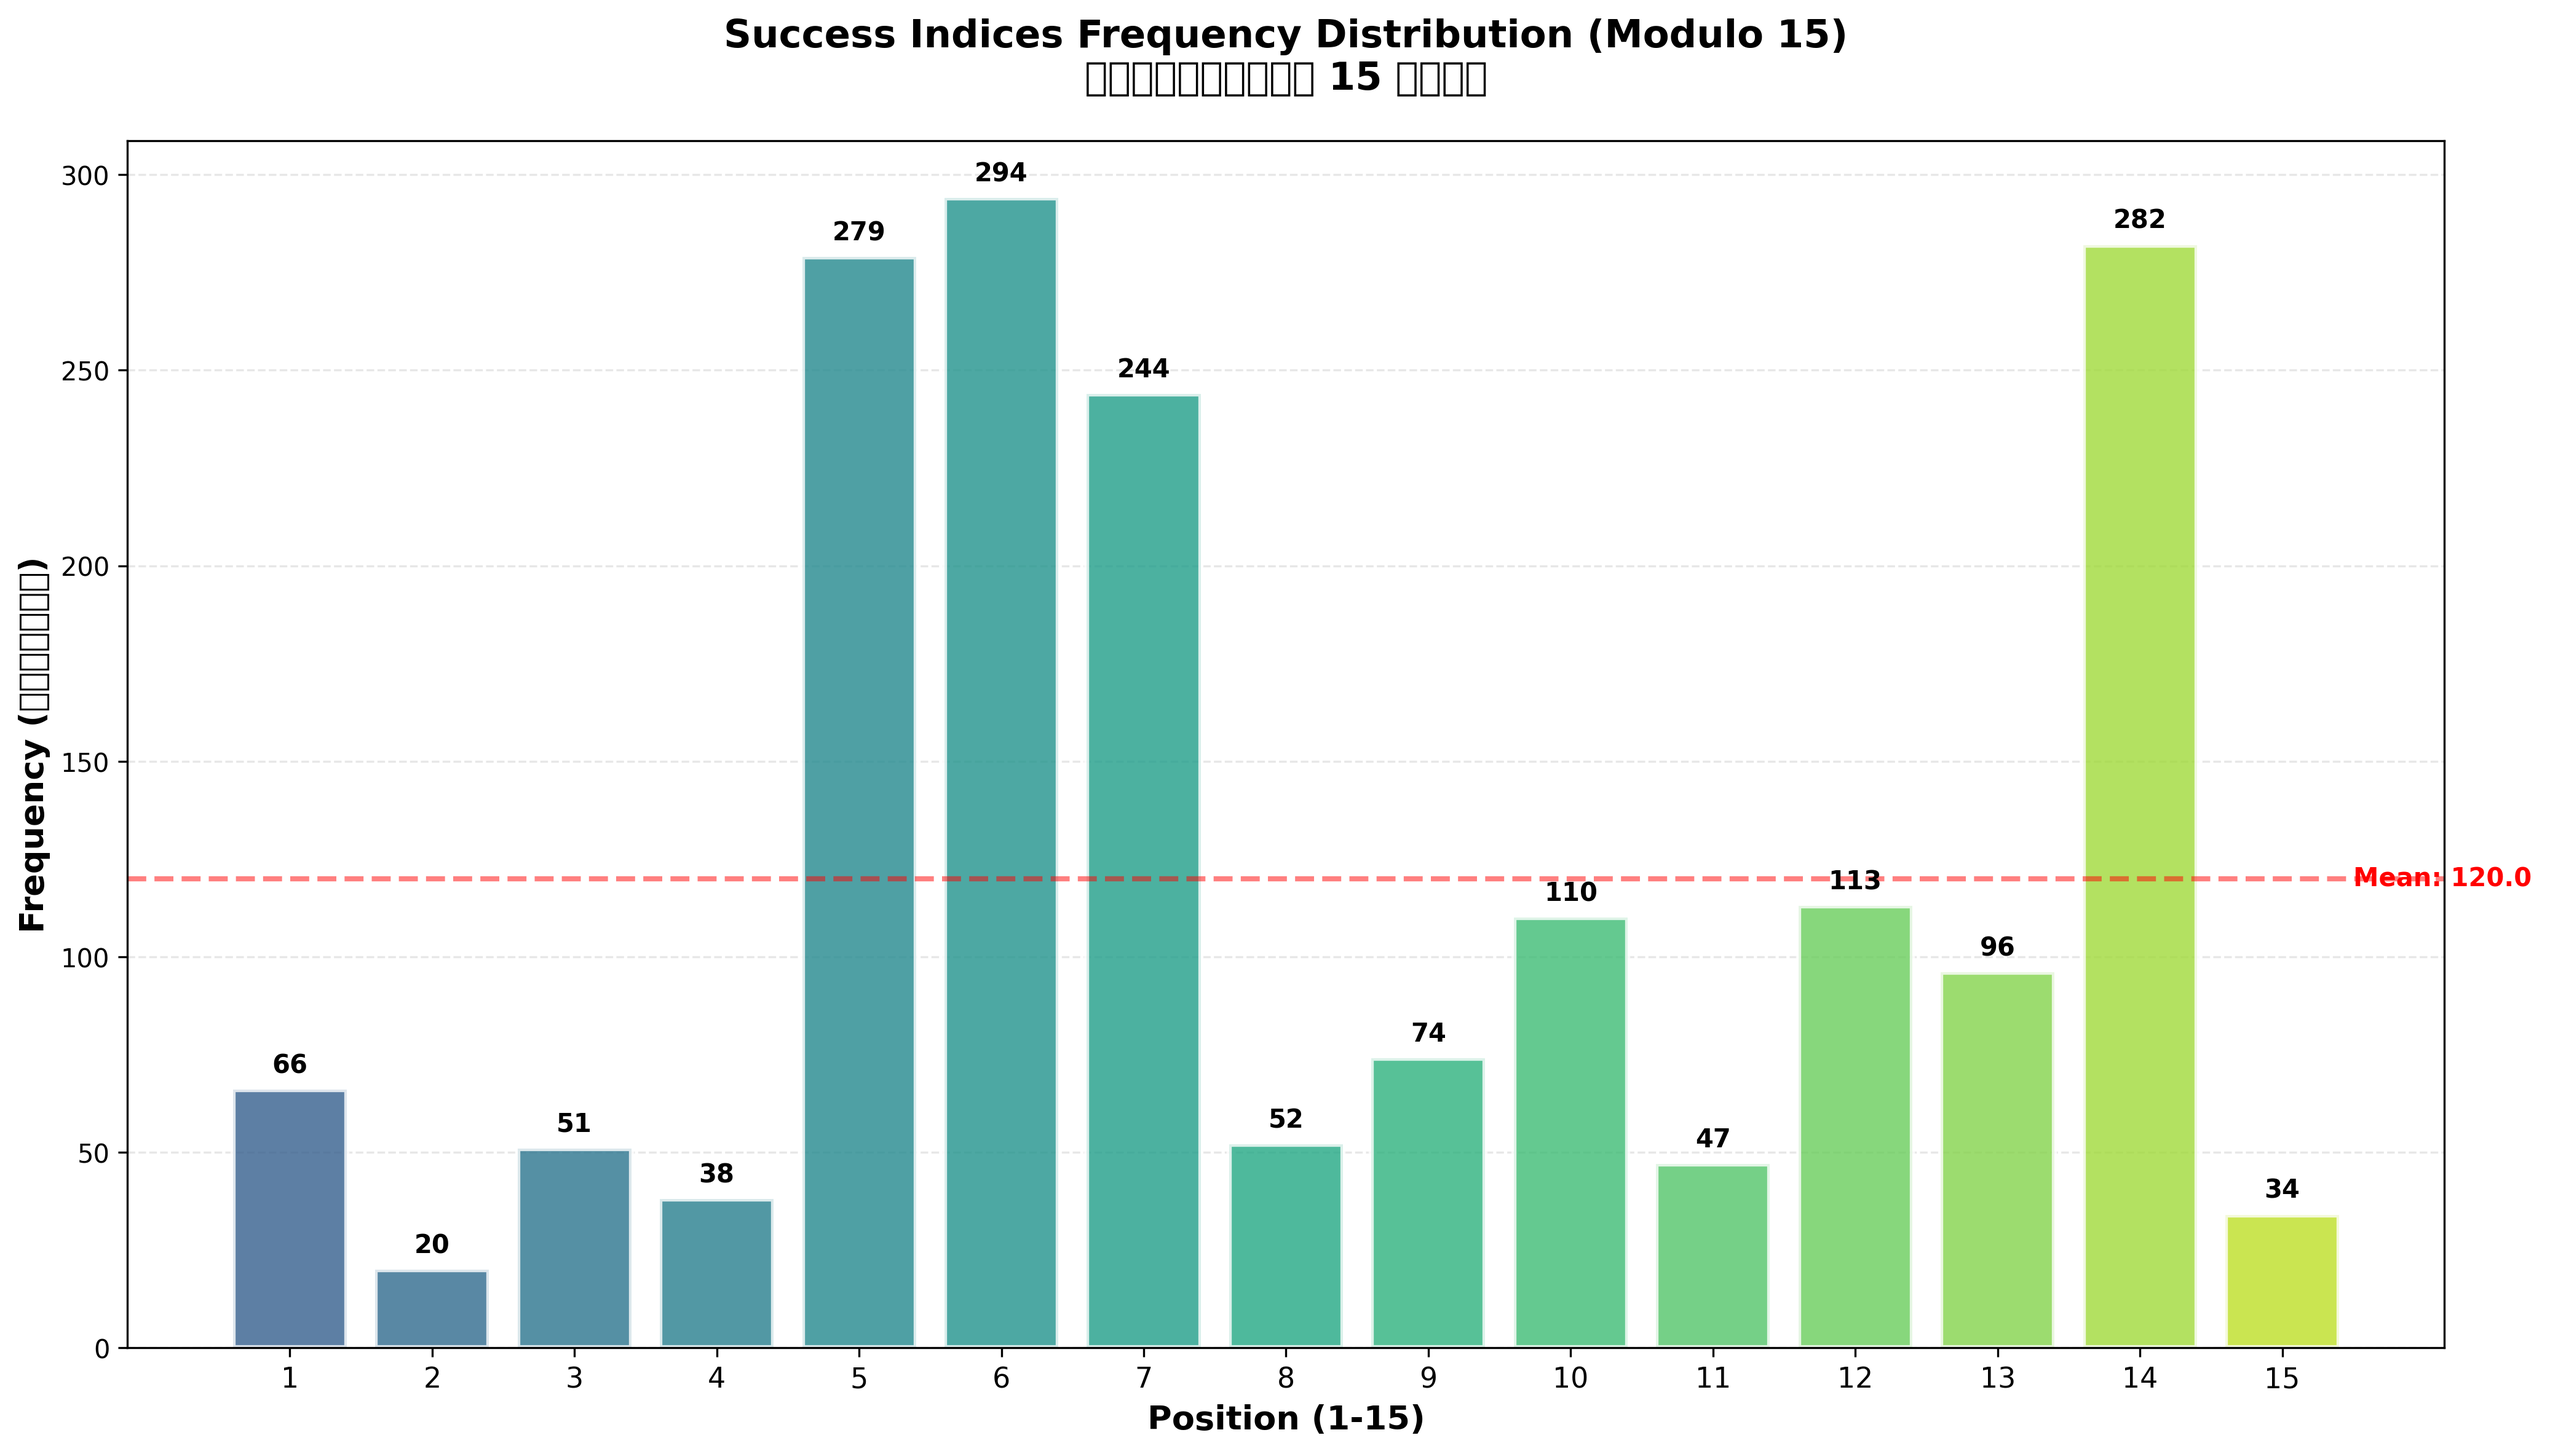
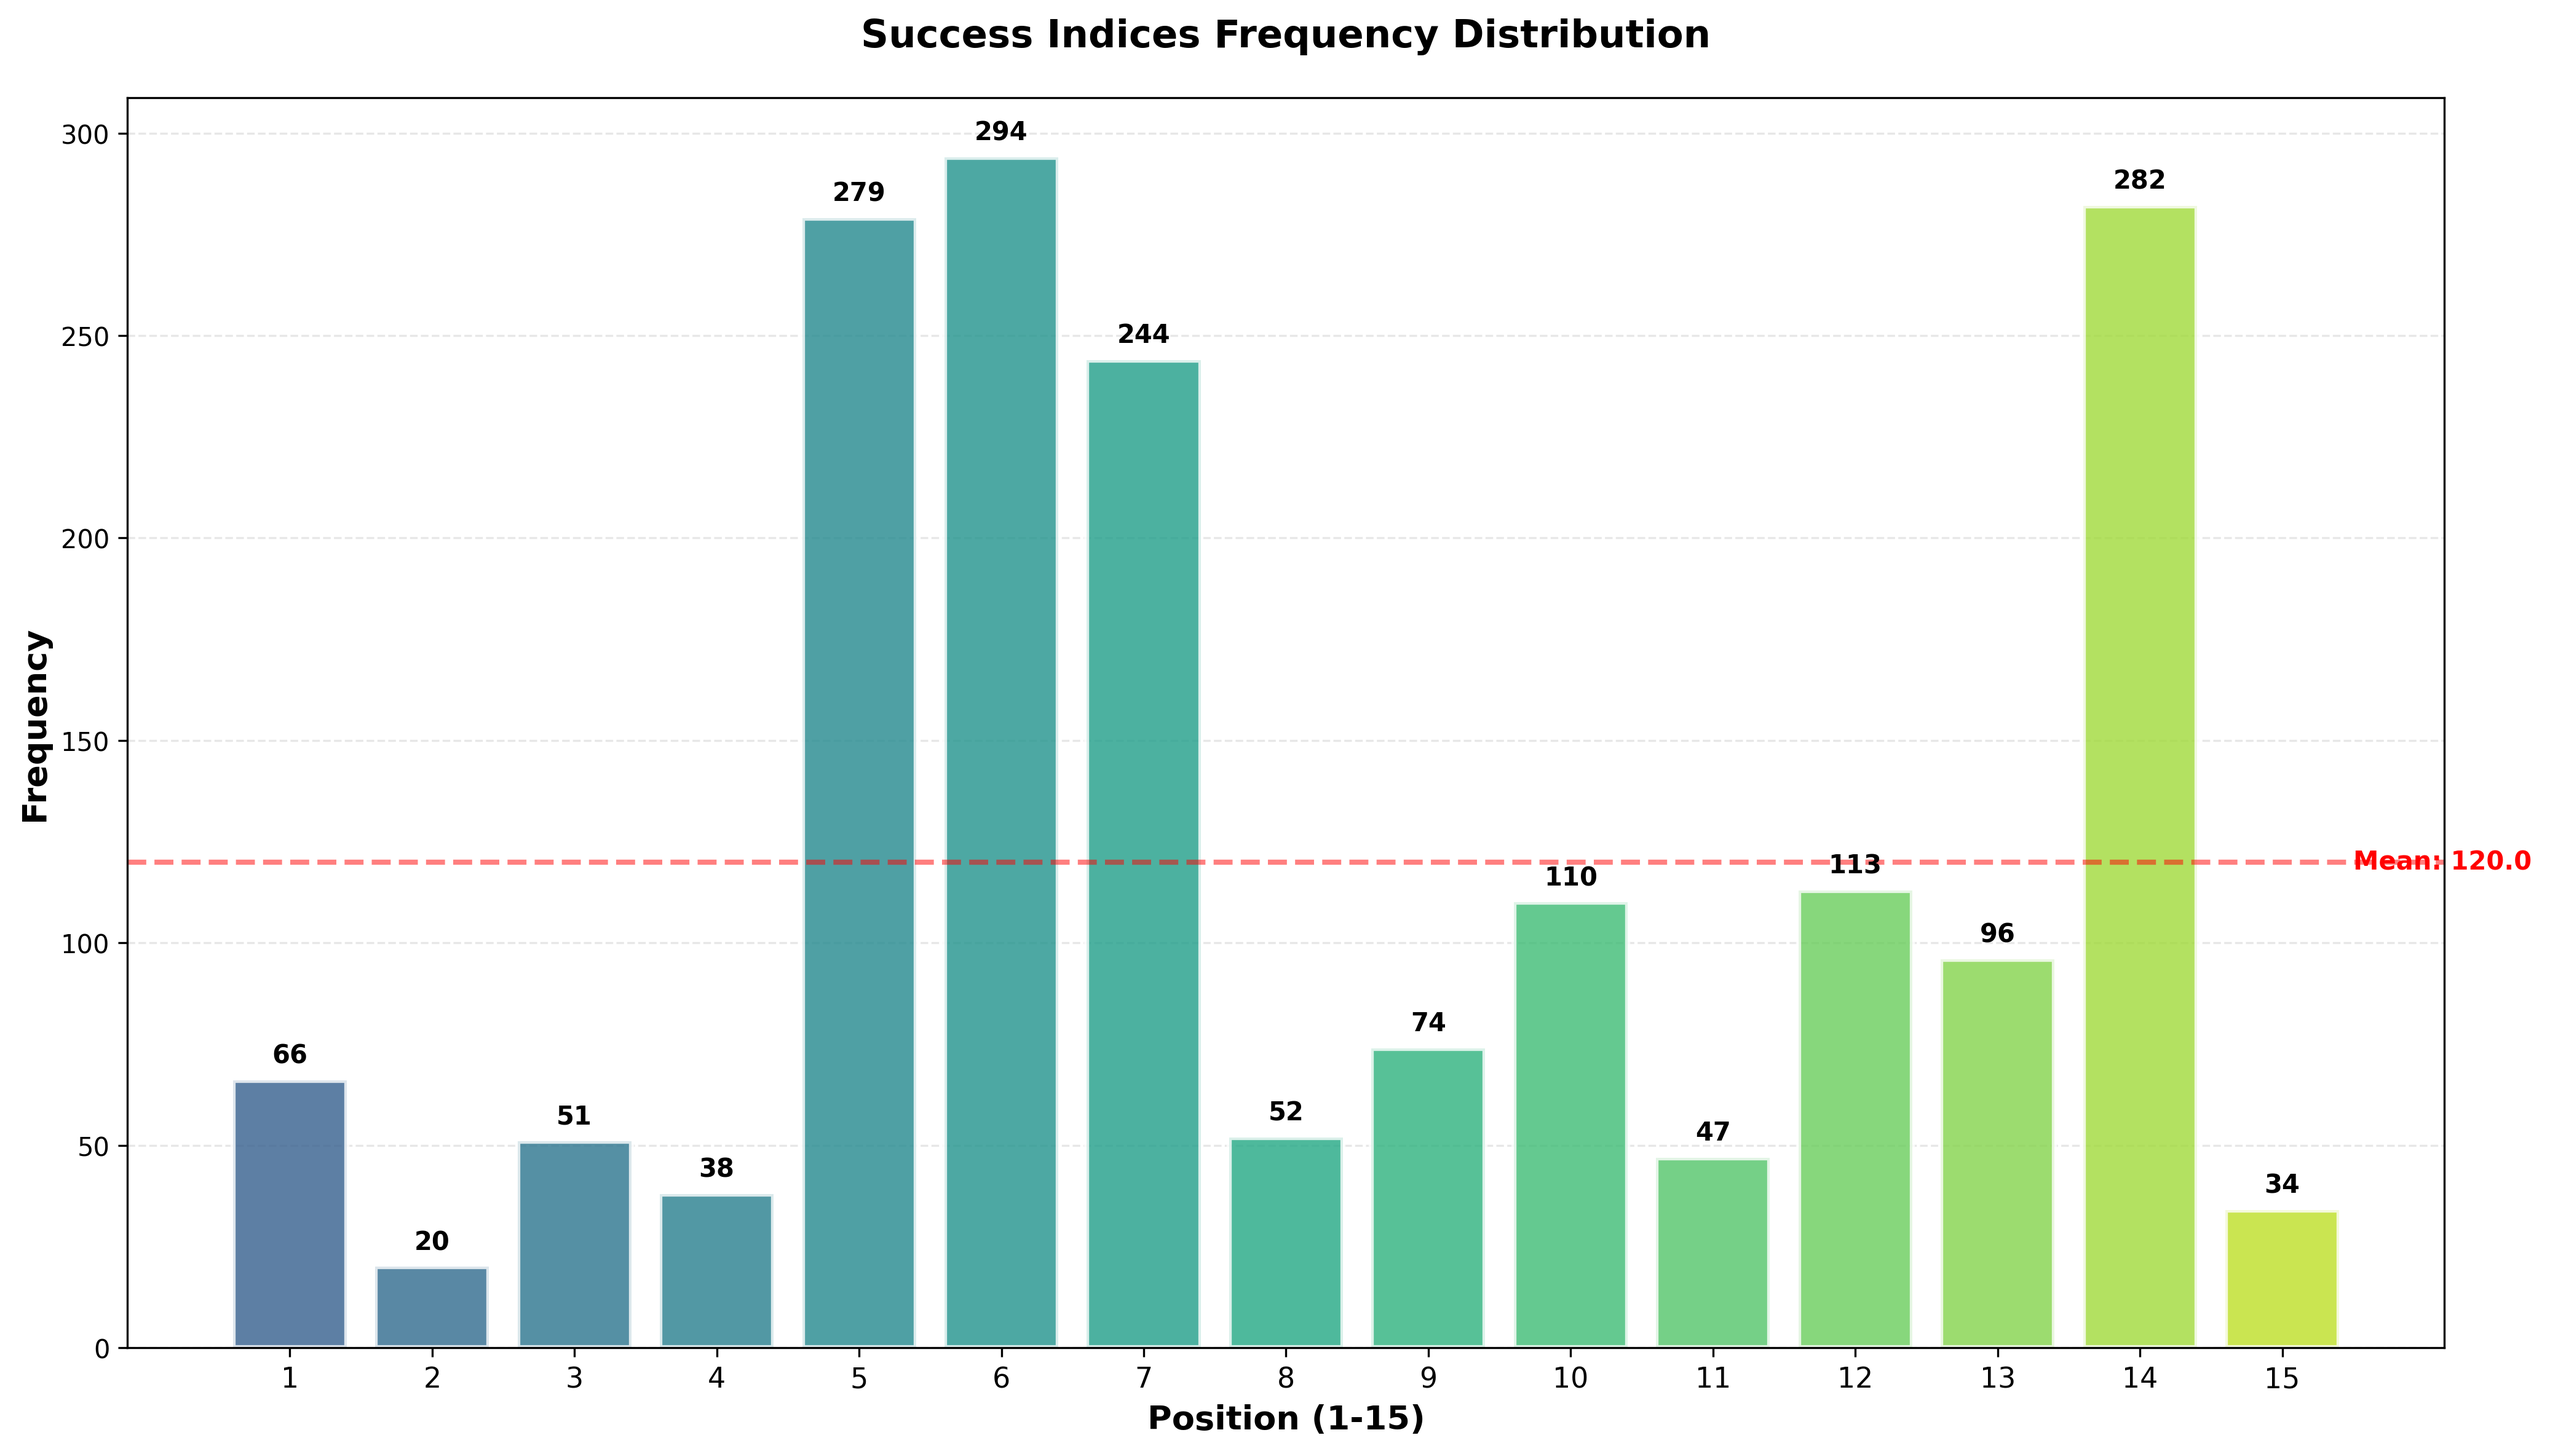
Update graph labels for clarity in frequency distribution visualization

diff --git a/analyze/ja/ja_query_rate.py b/analyze/ja/ja_query_rate.py
@@ -80,8 +80,8 @@ def create_frequency_graph(directory_path='.'):
     
     # ตกแต่งกราฟ
     ax.set_xlabel('Position (1-15)', fontsize=13, fontweight='bold')
-    ax.set_ylabel('Frequency (ความถี่)', fontsize=13, fontweight='bold')
-    ax.set_title('Success Indices Frequency Distribution (Modulo 15)\nรวมจากทั้ง 15 ไฟล์', 
+    ax.set_ylabel('Frequency', fontsize=13, fontweight='bold')
+    ax.set_title('Success Indices Frequency Distribution', 
                  fontsize=15, fontweight='bold', pad=20)
     ax.set_xticks(positions)
     ax.set_xticklabels(positions, fontsize=11)
